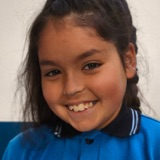
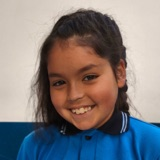
Reencuadra la foto de Ainhoa y agrega el apellido de Gabriela
La cabeza de Ainhoa se mide con el pelo (su peinado es más alto), así que
la foto grande y la miniatura quedan del mismo tamaño que las de los demás
y el pelo ya no se corta en el círculo. Gabriela pasa a ser Gabriela Díaz.

diff --git a/index.html b/index.html
@@ -170,7 +170,7 @@
                         <li><img class="av av-photo" src="assets/equipo/dakari-av.jpg" alt="" width="46" height="46" loading="lazy"><span><b>Dakari Caviedes</b><small>Panel Estudiantil</small></span></li>
                         <li><img class="av av-photo" src="assets/equipo/fernanda-av.jpg" alt="" width="46" height="46" loading="lazy"><span><b>Fernanda Suárez</b><small>Panel Estudiantil</small></span></li>
                         <li><img class="av av-photo" src="assets/equipo/ainhoa-av.jpg" alt="" width="46" height="46" loading="lazy"><span><b>Ainhoa Gómez</b><small>Panel Estudiantil</small></span></li>
-                        <li><img class="av av-photo" src="assets/equipo/gabriela-av.jpg" alt="" width="46" height="46" loading="lazy"><span><b>Gabriela</b><small>Panel Estudiantil</small></span></li>
+                        <li><img class="av av-photo" src="assets/equipo/gabriela-av.jpg" alt="" width="46" height="46" loading="lazy"><span><b>Gabriela Díaz</b><small>Panel Estudiantil</small></span></li>
                     </ul>
                     <a href="#equipo" class="card-link">Conocer a todo el equipo <i class="fa-solid fa-arrow-right" aria-hidden="true"></i></a>
                 </div>
@@ -342,10 +342,10 @@
                     </div>
                 </article>
                 <article class="card crew-student reveal" style="--i:4">
-                    <div class="crew-photo"><img src="assets/equipo/gabriela.jpg" alt="Gabriela, estudiante del panel de Radio Nazareo, sonriendo" width="720" height="900" loading="lazy"></div>
+                    <div class="crew-photo"><img src="assets/equipo/gabriela.jpg" alt="Gabriela Díaz, estudiante del panel de Radio Nazareo, sonriendo" width="720" height="900" loading="lazy"></div>
                     <div class="crew-text">
                         <span class="pill"><i class="fa-solid fa-face-smile" aria-hidden="true"></i> Sonrisa contagiosa</span>
-                        <h3>Gabriela</h3>
+                        <h3>Gabriela Díaz</h3>
                         <p class="bio">La sonrisa del equipo. Llega a cabina con buena onda y se la pasa a cada compañero y a todos los oyentes.</p>
                     </div>
                 </article>
